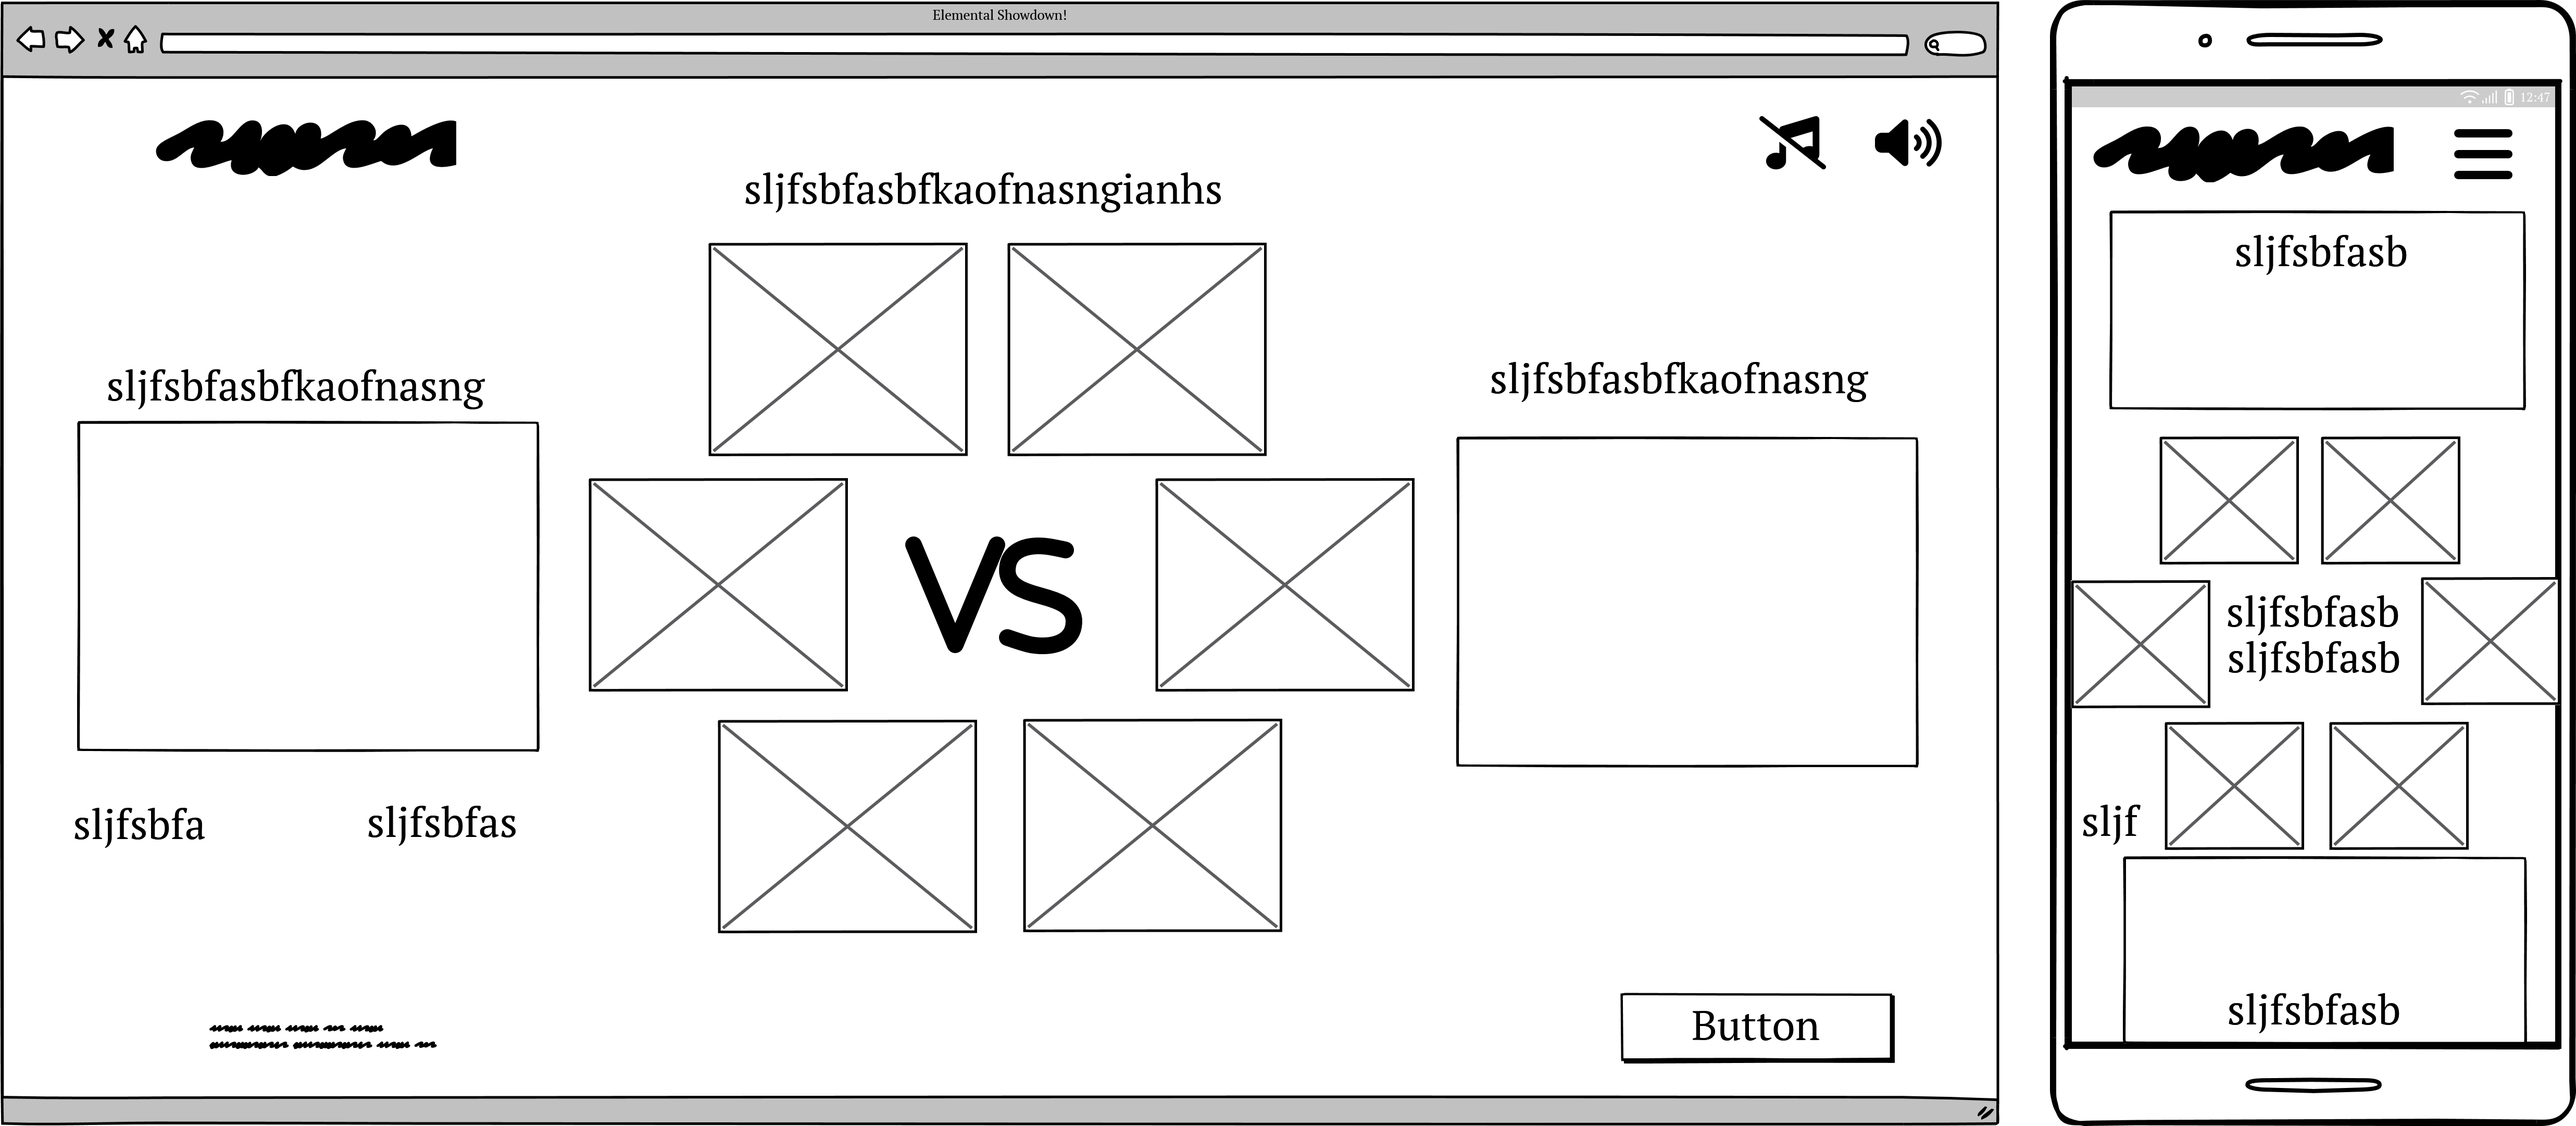
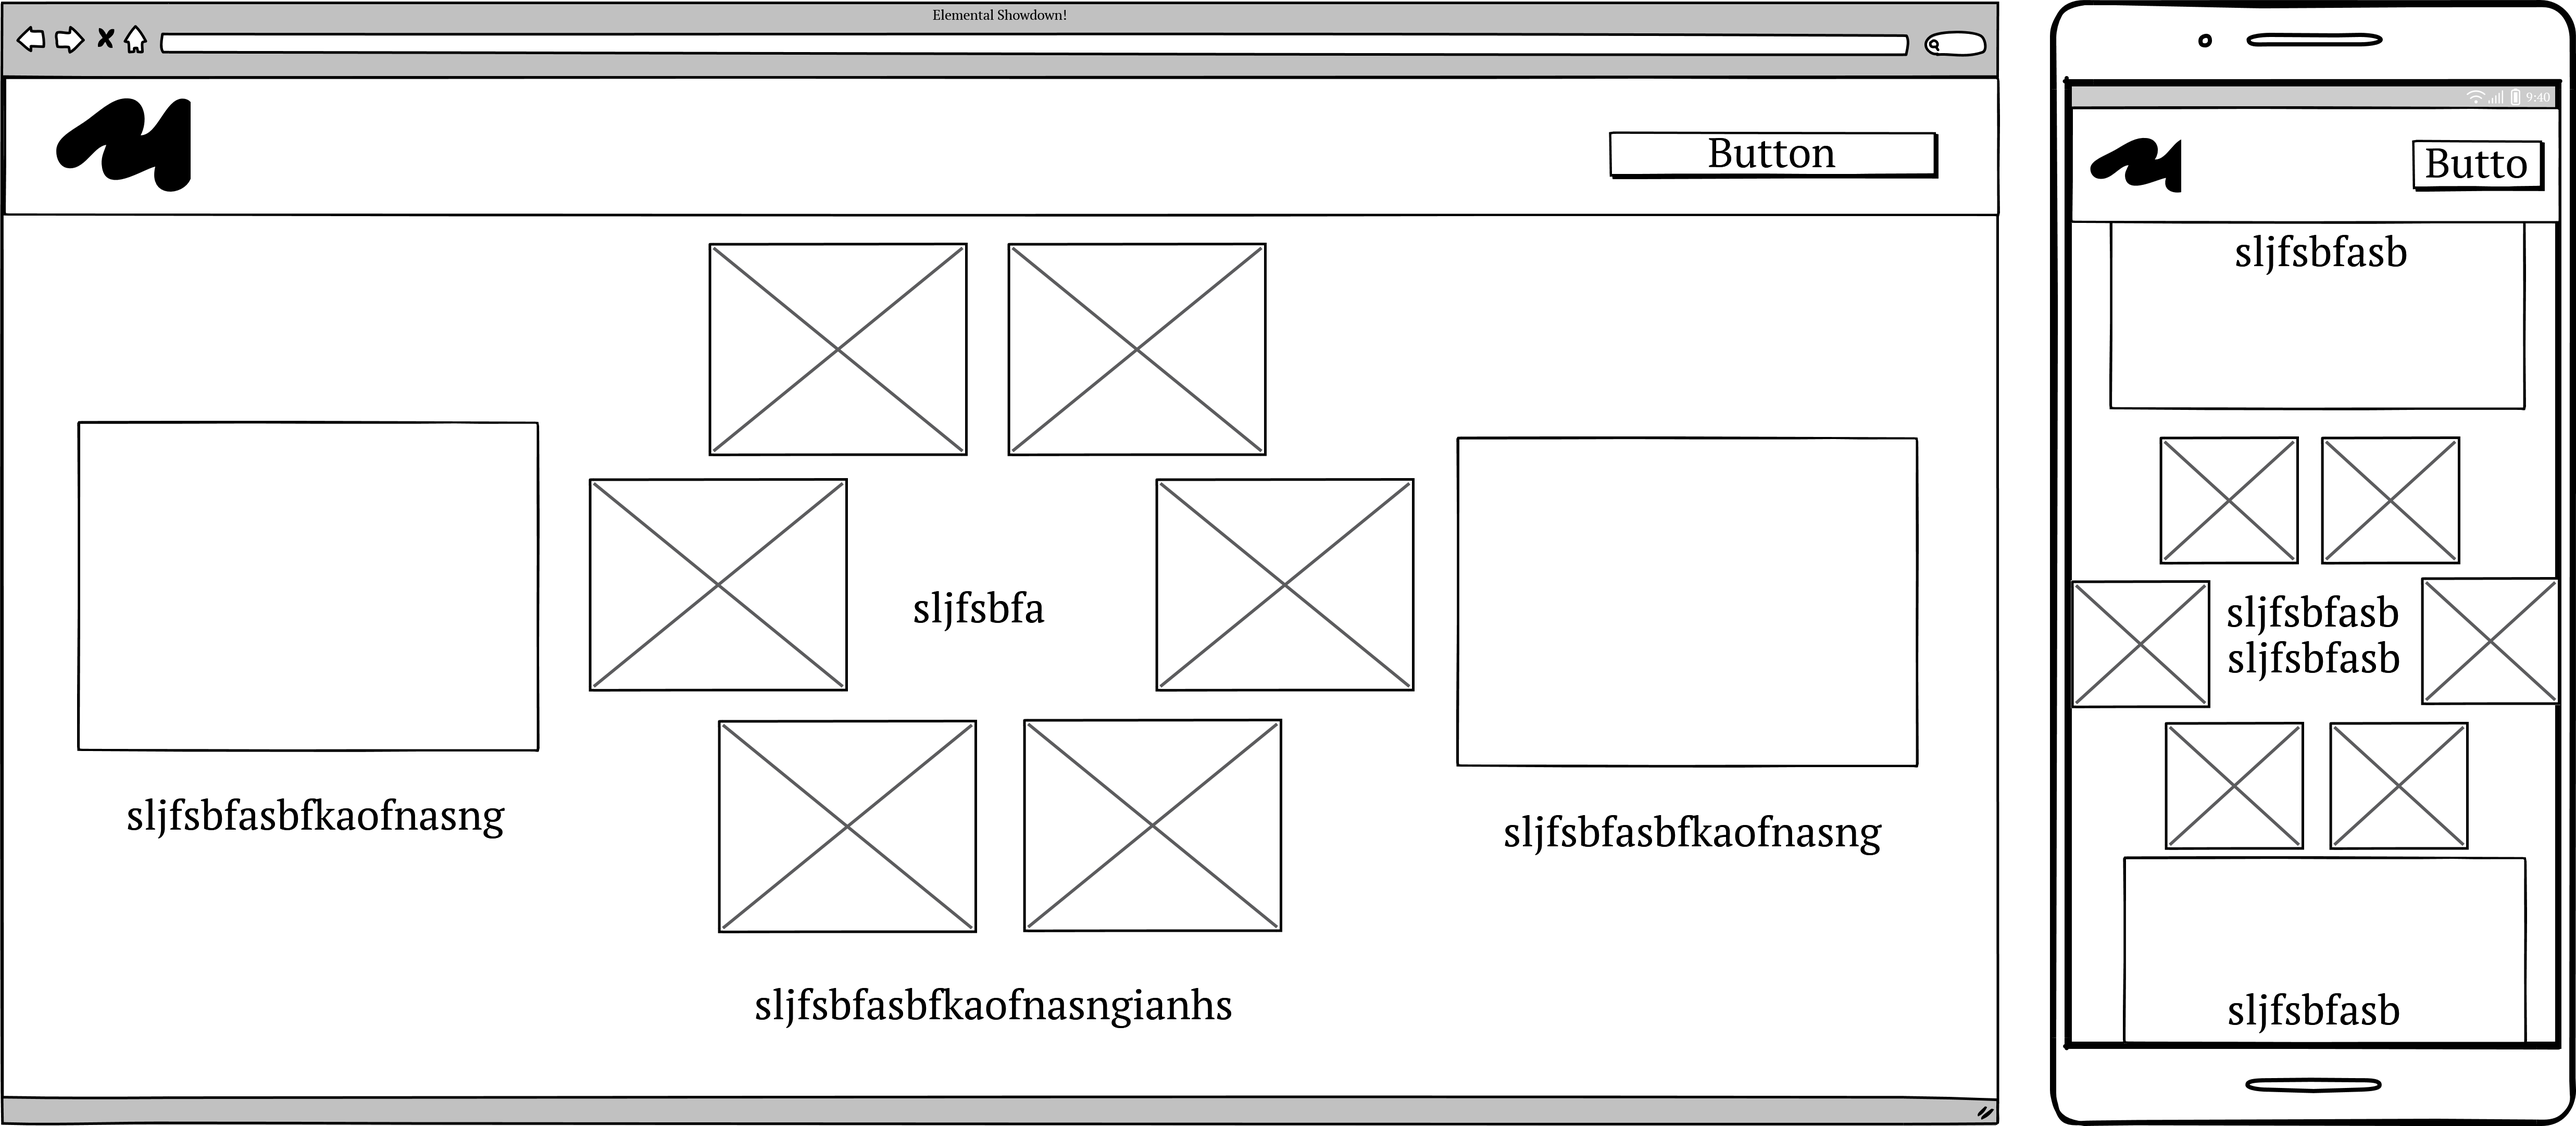
add finished user stories

diff --git a/README.md b/README.md
@@ -1,67 +1,124 @@
-# elemental-showdown Group Hackathon
+# Elemental Showdown
 
-## Github cheat sheet because we all have access to main
+For the Code Institute Bootcamp Hackathon #2, our team decided to complete the rock paper scissors game with a twist. Our player chooses between 6 different options based on the traditional chinese elements to play against the Singularity (our computer's randomly selected move) in a bes of 3 battle of the Elements!
 
-1. Clone the project:
-   Open your terminal or command prompt.
-   Navigate to the directory where you want to clone the project.
-   Run the following command to clone the repository:
-   `git clone <repository-url>`
-   Replace <repository-url> with the URL of the project repository you want to clone.
 
-2. Navigate to the project directory:
-   After cloning, navigate into the cloned project directory using the cd command:
-   `cd <project-directory>`
-   Replace <project-directory> with the name of the cloned project directory.
+![Responsive Mockup]()
 
-3. Create a new branch:
-   Before making any changes, create a new branch to work on. Run the following command:
-   `git checkout -b <branch-name>`
-   Replace <branch-name> with a descriptive name for your branch (e.g., feature-login, bug-fix-123).
+## Features 
 
-4. Make changes and add them to the branch:
-   Open the project in your preferred code editor.
-   Make the necessary changes, additions, or modifications to the codebase.
-   After making changes, stage the modified files using the git add command:
-   `git add <file1> <file2> ...`
-   Replace <file1>, <file2>, etc., with the specific files you want to stage, or use git add . to stage all modified files.
-   however most developers just do `git add .` instead which adds all files to the branch.
 
-5. Commit the changes:
-   After staging the changes, commit them with a descriptive commit message using the git commit command:
-   `git commit -m "Your commit message"`
-   Replace "Your commit message" with a brief description of the changes you made.
+### User stories
 
-6. Push the branch to the remote repository:
-   Push the branch with your changes to the remote repository using the git push command:
-   `git push origin <branch-name>`
-   Replace <branch-name> with the name of the branch you created earlier.
+- Sitewide
 
-7. Create a pull request:
-   Open a web browser and navigate to the original repository on the platform where it is hosted (e.g., GitHub, GitLab).
-   You should see a notification or a button to create a new pull request for your recently pushed branch.
-   Click on the "Create Pull Request" button.
-   Provide a title and description for your pull request, explaining the changes you made.
-   Review the changes and make sure everything looks correct.
-   Click on the "Create Pull Request" button to submit your pull request.
+    - As a user I want a clickable logo in the header so that I can easily navigate back to the landing page
 
-8. Collaborate and address feedback:
-   After creating the pull request, the project maintainers or reviewers will review your changes.
-   They may provide feedback, request modifications, or ask questions about your changes.
-   Engage in the conversation, address any feedback or requested changes, and push additional commits to your branch if necessary.
+    - As a user I want there to be a background music toggle so that I can listen to something which fits the game as I play it
 
-9. Merge the pull request:
-   Once your pull request is approved and all discussions are resolved, the project maintainers will merge your changes into the main branch of the repository.
-   Congratulations! Your changes are now part of the project.
-   `git pull origin main`
+    - As a user I want a sound effects toggle so that I can turn off the in game sounds at the click of a button
 
-Remember to keep your local repository up to date by periodically pulling the latest changes from the main branch using `git pull origin main` before creating new branches and starting new work.
-`N.B` remember to only create a pull request when we are in a group huddle.
+    - As a user I want to be able to hear some fitting background music so that I can get more into the game I’m playing
 
-# Color Palette
+- Landing page 
 
-![pallette](./assets/img/elemental-showdown.png)
+    - As a user I want to see the rules of the game clearly on the landing page so that I can learn them quickly and start playing as soon as I understand them
 
-# Font Family
+    - As a user I want to be able to start the game from the landing page so that I can play it faster
 
-Exo2 is the custom font that we are using throughout the application as its a readable font and unique enough to display some originality.
+    - As a user I want  to be able to play the game without entering any information so that I can start playing instantly
+
+    - As a user I want to be able to sign in to the game with a name so that I can choose to play as myself or some other person/character for fun
+
+- Game
+
+    - As a user I want to be able to choose what element I want to use for each round so that I can have an impact on the game
+
+    - As a user I want so that I can
+
+    - As a user I want to be able to see the winner of every round so that I can understand what has happened in the game
+
+    - As a user I want see how many rounds the player and computer have won so that I can see who is about to win
+
+    - As a user I want to be able to see the current round number so that I can keep track of how far into the best of three I am
+
+    - As a user I want to see the winner of each round as it ends so that I can gain more of an understanding of what’s happening in the game
+
+    - As a user I want to hear sound effects for every element in the battle so that I can be more immersed
+
+    - As a user I want to have to make a decision on what element I want to use within a 5 second time limit so that the game can feel more intense
+    
+    - As a user I want to be able to see how many best of 3 battles I've won so that I can keep track of my achievements
+
+As a user I want to see the move I’ve selected going up against the move the computer has selected so that I can see for myself if I’ve won the round or not 
+
+- Game end
+
+    - As a user I want to see a message at the end of the best of 3 so that I can see if I’ve won or not
+
+    - As a user I want there to be a button on the endgame screen to play again so that I can continue playing with just one click
+
+    - As a user I want to see the name I’ve used to sign in referenced on the endgame screen so that I can be more invested in the outcome of the game
+
+    - As a user I want there to be a button on the endgame screen to return to the landing page so that I can return there with just one click
+
+    - As a user I want a score to be calculated from my performance so that I can easily see an idea of how I've done
+
+    - As a user I want to see a breakdown of my performance with data shown so that I can see bespoke feedback on how I've done 
+
+- Footer
+
+    - As the site owner I want there to be a footer with my copyright so that I can protect my IP
+
+    - As a user I want there to be a rules pop up on the footer so that I can check the rules of the game again as I’m playing
+
+### MoSCoW Table
+
+
+## Wireframes
+
+- __Landing page__
+
+- ![wireframes](./assets/img/wireframe-landing-page.png)
+
+- ![wireframes](./assets/img/wireframe-landing-page-hf.png)
+
+- __Game page__
+
+- ![wireframes](./assets/img/wireframe-game-running.png)
+
+- ![wireframes](./assets/img/wireframe-gameover-modal.png)
+
+- ![wireframes](./assets/img/wireframe-game-running-hf.png)
+
+- ![wireframes](./assets/img/wireframe-gameover-modal-hf.png)
+
+### Existing Features
+
+
+### Features We'd implement in the future if we could
+
+
+## Testing 
+
+
+### Feature Testing
+
+
+### Validator Testing 
+
+
+### Identified Bugs
+
+
+## Deployment
+
+https://elemental-showdown.netlify.app
+
+## Credits 
+
+
+### Content 
+
+
+### Media

diff --git a/working-group-readme/Waris.md b/working-group-readme/Waris.md
@@ -13,111 +13,6 @@ Made moscow table
 Added completed modal for end of signed in game
 # 30/05/24 
 Fixed music on every page
+Added wireframes to read me
 
-# Elemental Showdown
-
-For the Code Institute Bootcamp Hackathon #2, our team decided to complete the...
-
-
-![Responsive Mockup]()
-
-## Features 
-
-
-### User stories
-
-Sitewide - header - must do - As a user I want a clickable logo in the header so that I can easily navigate back to the landing page
-
-Sitewide - music toggle - should do - As a user I want there to be a background music toggle so that I can listen to something which fits the game as I play it
-
-Sitewide - sound effects toggle - should do - As a user I want a sound effects toggle so that I can turn off the in game sounds at the click of a button
-
-Sitewide - find background music .mp3 - should do - As a user I want to be able to hear some fitting background music so that I can get more into the game I’m playing
-
-Landing page - rules - must do - As a user I want to see the rules of the game clearly on the landing page so that I can learn them quickly and start playing as soon as I understand them
-
-Landing page - start game - must do - As a user I want to be able to start the game from the landing page so that I can play it faster
-
-Landing page - anonymous sign in - must do - As a user I want  to be able to play the game without entering any information so that I can start playing instantly
-
-Landing page - name sign in - should do - As a user I want to be able to sign in to the game with a name so that I can choose to play as myself or some other person/character for fun
-
-Game - user move selection - must do - As a user I want to be able to choose what element I want to use for each round so that I can have an impact on the game
-
-Game - timer for making a decision - must do - As a user I want so that I can
-
-Game - display winner after every move - should do - As a user I want to be able to see the winner of every round so that I can understand what has happened in the game
-
-Game - display number of rounds won - should do - As a user I want see how many rounds the player and computer have won so that I can see who is about to win
-
-Game - display current round number - should do - As a user I want to be able to see the current round number so that I can keep track of how far into the best of three I am
-
-Game - display winner after every move - should do - As a user I want to see the winner of each round as it ends so that I can gain more of an understanding of what’s happening in the game
-
-Game - Sounds for each element and button clicks - could do - As a user I want to hear sound effects for every element in the battle so that I can be more immersed
-
-Game - Display of users move against CPU move (sound effect) - could do - As a user I want to see the move I’ve selected going up against the move the computer has selected so that I can see for myself if I’ve won the round or not 
-
-Game end - display a message on game end - must do - As a user I want to see a message at the end of the best of 3 so that I can see if I’ve won or not
-
-Game end - button to try again - must do
-As a user I want there to be a button on the endgame screen to play again so that I can continue playing with just one click
-
-Game end - mention signed in user on game end - should do
-As a user I want to see the name I’ve used to sign in referenced on the endgame screen so that I can be more invested in the outcome of the game
-
-Game end - button on defeat links to homepage - could do
-As a user I want there to be a button on the endgame screen to return to the landing page so that I can return there with just one click
-
-Footer - copyright - must do
-As the site owner I want there to be a footer with my copyright so that I can protect my IP
-
-Footer - Rules pop up - should do
-As a user I want there to be a rules pop up on the footer so that I can check the rules of the game again as I’m playing
-
-
-
-### MoSCoW Table
-
-
-## Wireframes
-
-- __Landing page__
-
-- ![wireframes](../assets/img/wireframe-landing-page.png)
-
-- __Game page__
-
-- ![wireframes](../assets/img/wireframe-game-running.png)
-
-- ![wireframes](../assets/img/wireframe-gameover-modal.png)
-
-### Existing Features
-
-
-### Features We'd implement in the future if we could
-
-
-## Testing 
-
-
-### Feature Testing
-
-
-### Validator Testing 
-
-
-### Identified Bugs
-
-
-## Deployment
-
-
-## Credits 
-
-
-### Content 
-
-
-### Media
 
